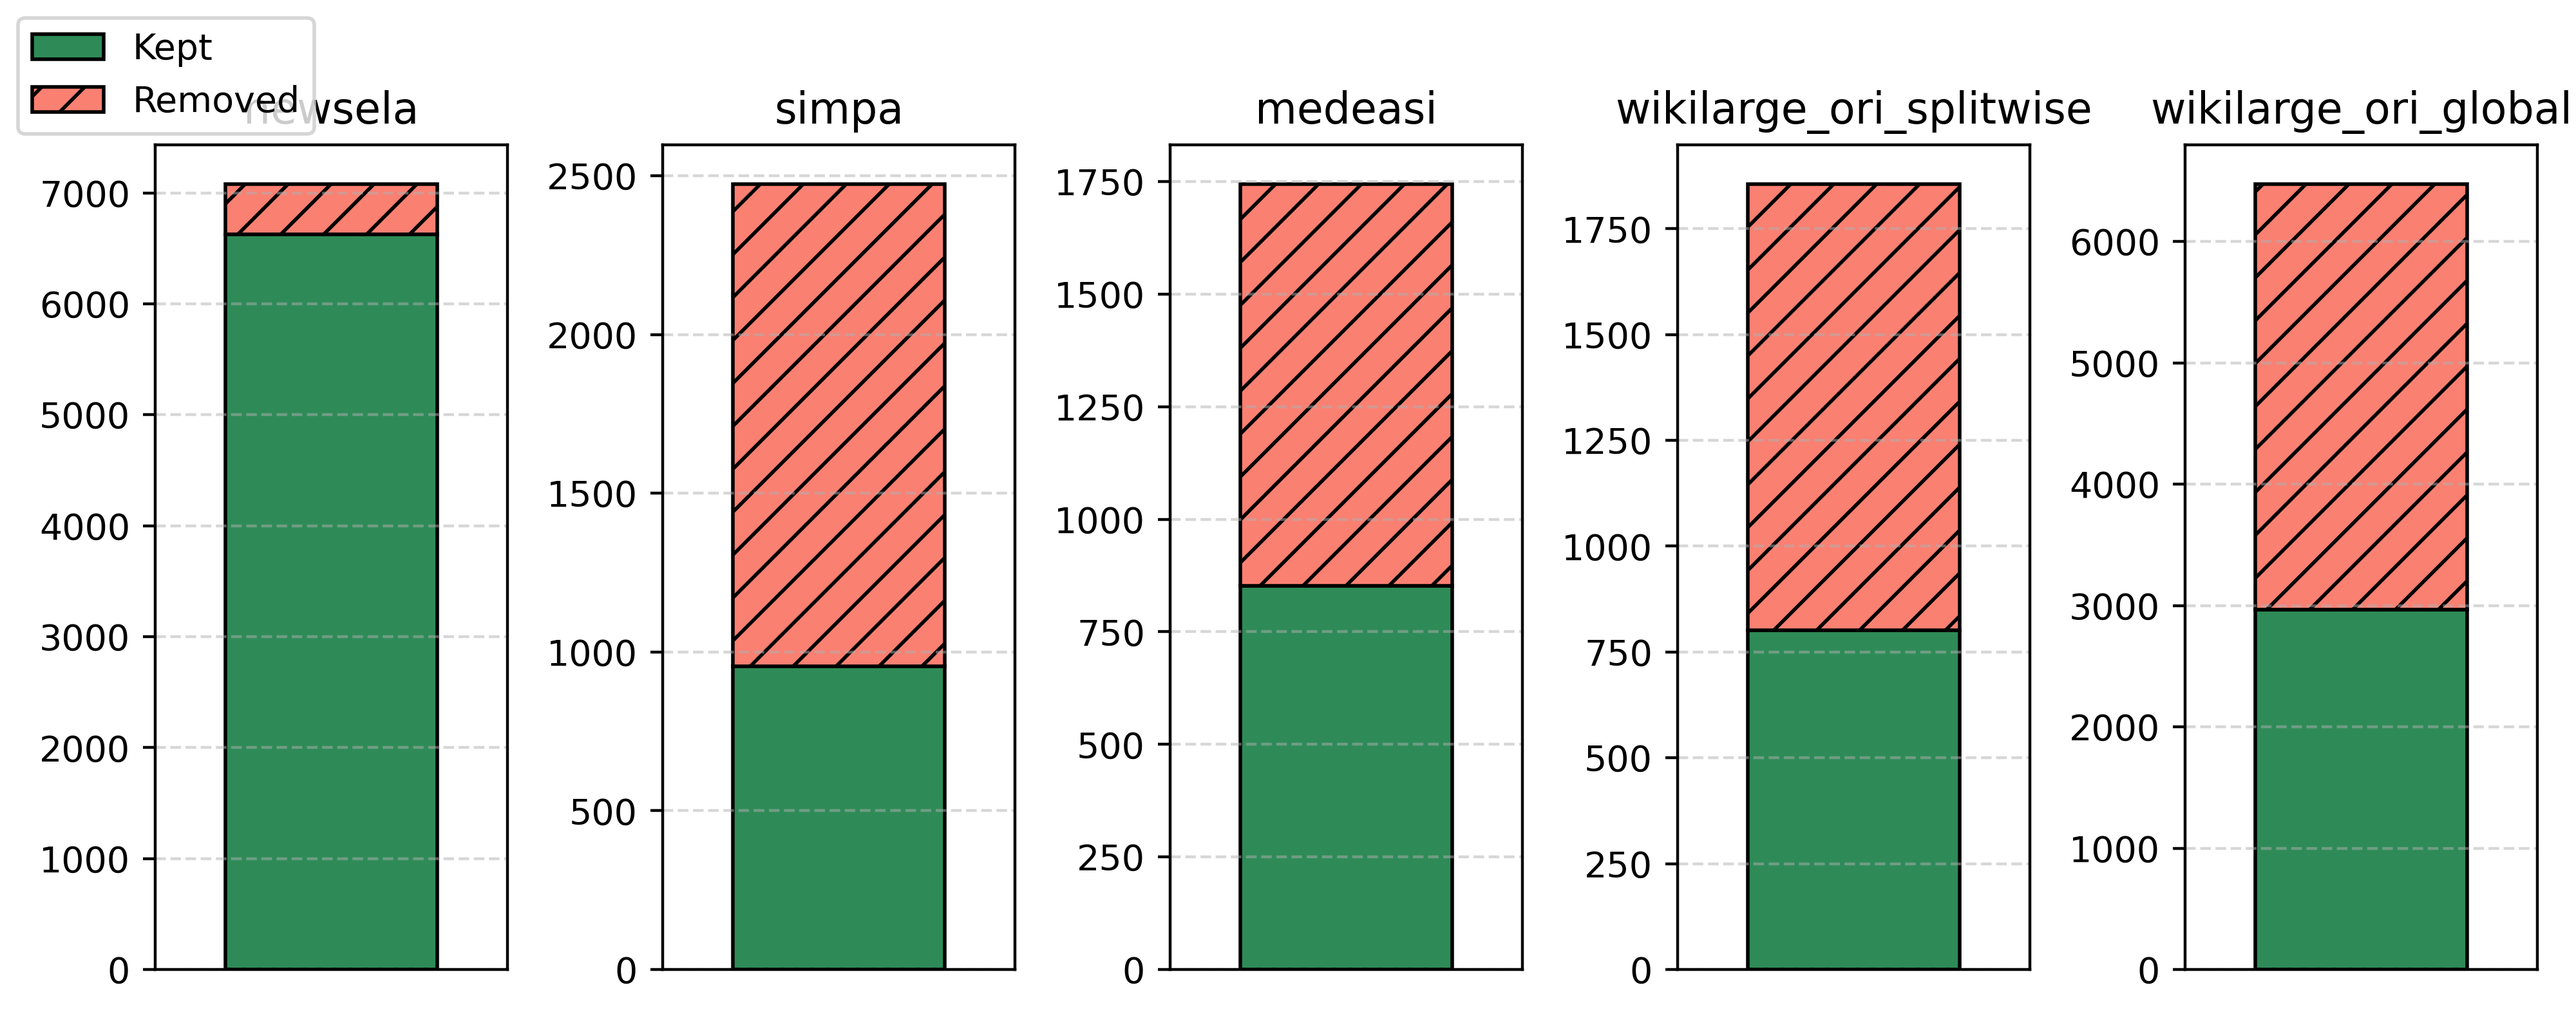
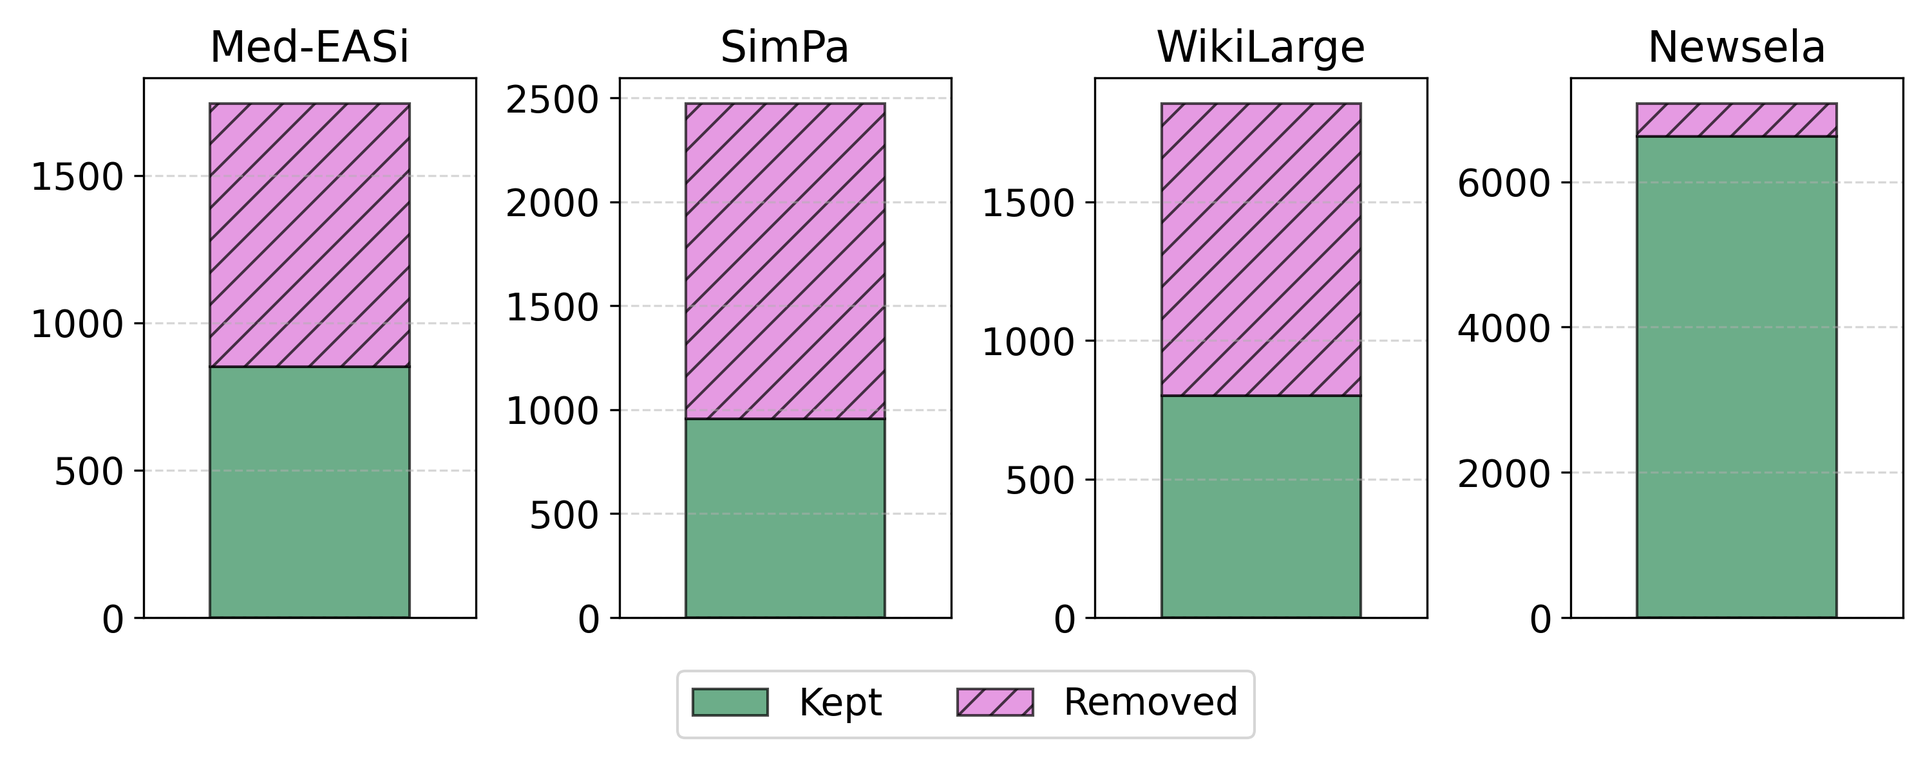
improve hq plotting visuals

diff --git a/src/filter_flattened_splits.py b/src/filter_flattened_splits.py
@@ -12,6 +12,15 @@ def log_stats(logfile_path, message):
         log_file.write(message + "\n")
     print(message)
 
+def map_dataset_name(unformatted_name):
+    dataset_mapping = {
+        "newsela": "Newsela",
+        "simpa": "SimPa",
+        "medeasi": "Med-EASi",
+        "wikilarge_ori_splitwise": "WikiLarge"
+    }
+    return dataset_mapping.get(unformatted_name)
+
 def filter_metrics(flattened_input_path, filtered_output_path, log_file_path=None, metrics=None,
                    dataset_stats=None, dataset=None, dataset_metric_sets=None):
     total = 0
@@ -103,7 +112,7 @@ def plot_stats(stats_df, save_dir):
     datasets = stats_df["Dataset"]
     n_datasets = len(datasets)
 
-    fig, axs = plt.subplots(1, 5, figsize=(10, 4))
+    fig, axs = plt.subplots(1, 4, figsize=(10, 4))
 
     if n_datasets == 1:
         axs = [axs]
@@ -115,28 +124,36 @@ def plot_stats(stats_df, save_dir):
 
         x = 0
         bar_width = 0.6
-        ax.bar(x, kept, color="seagreen", width=bar_width, label="Kept", edgecolor="black")
-        ax.bar(x, removed, bottom=kept, color="salmon", width=bar_width, label="Removed", hatch='//', edgecolor="black")
+        ax.bar(x, kept, color="seagreen", width=bar_width, label="Kept", edgecolor="black", alpha=0.7)
+        ax.bar(x, removed, bottom=kept, color="orchid", width=bar_width, label="Removed", hatch='//', edgecolor="black", alpha=0.7)
 
         ax.set_xlim(-0.5, 0.5)
         ax.set_xticks([])
-        ax.set_title(dataset, fontsize=12)
+        ax.set_title(
+            map_dataset_name(dataset),
+            fontsize=16
+            )
+        ax.tick_params(axis='y', labelsize=14)
         ax.grid(axis="y", linestyle="--", alpha=0.5)
 
-    fig.legend(["Kept", "Removed"], loc="upper left", frameon=True, fontsize=10)
-
-    # plt.suptitle("Filtering Stats: Stacked Count of Kept and Removed Instances", fontsize=16)
-    plt.tight_layout(rect=[0, 0, 1, 0.95])
-    # plt.show()
-    plt.savefig(os.path.join(save_dir, "bars.png"), dpi=400)
+    # fig.legend(["Kept", "Removed"], loc="upper left", frameon=True, fontsize=10)
+    fig.legend(["Kept", "Removed"],
+            loc="lower center",
+            bbox_to_anchor=(0.5, 0.02),
+            ncol=2,
+            frameon=True,
+            fontsize=14)
+    plt.tight_layout()
+    plt.subplots_adjust(bottom=0.2)
+    plt.savefig(os.path.join(save_dir, "bars.png"), dpi=300)
 
 
 def plot_venn_diagrams(dataset_metric_sets, save_dir):
     num_datasets = len(dataset_metric_sets)
     rows = 1
-    cols = 5
+    cols = 4
 
-    fig, axs = plt.subplots(rows, cols, figsize=(10, 5))
+    fig, axs = plt.subplots(rows, cols, figsize=(10, 3.5))
     axs = axs.flatten()
 
     for i, (dataset, metric_sets) in enumerate(dataset_metric_sets.items()):
@@ -150,29 +167,26 @@ def plot_venn_diagrams(dataset_metric_sets, save_dir):
         ax = axs[i]
         v = venn3(sets, set_labels=labels, ax=ax, alpha=0.5)
 
-        # Resize the set labels
         for label in v.set_labels:
-            if label:  # Check if label is not None
-                label.set_fontsize(8)  # or any size you prefer
+            if label:
+                label.set_fontsize(12)
 
-        # Resize the subset labels (numbers inside the diagram)
         for label in v.subset_labels:
             if label:
-                label.set_fontsize(8)  # or adjust as needed
+                label.set_fontsize(12)
 
-        ax.set_title(f"{dataset}", fontsize=12)
+        ax.set_title(f"{map_dataset_name(dataset)}", fontsize=16)
 
     plt.tight_layout()
-    # plt.show()
-    plt.savefig(os.path.join(save_dir, "venn.png"), dpi=400)
+    plt.savefig(os.path.join(save_dir, "venn.png"), dpi=300)
 
 def main():
     datasets = [
-                "newsela", 
-                "simpa", 
-                "medeasi", 
+                "medeasi",
+                "simpa",
                 "wikilarge_ori_splitwise",
-                "wikilarge_ori_global"
+                "newsela",
+                # "wikilarge_ori_global"
                 ]
     metrics_to_filter_by = ["FKGL", "ARI", "Dale-Chall"]
     save_dir = "./../data/splits_flattened_filtered"
